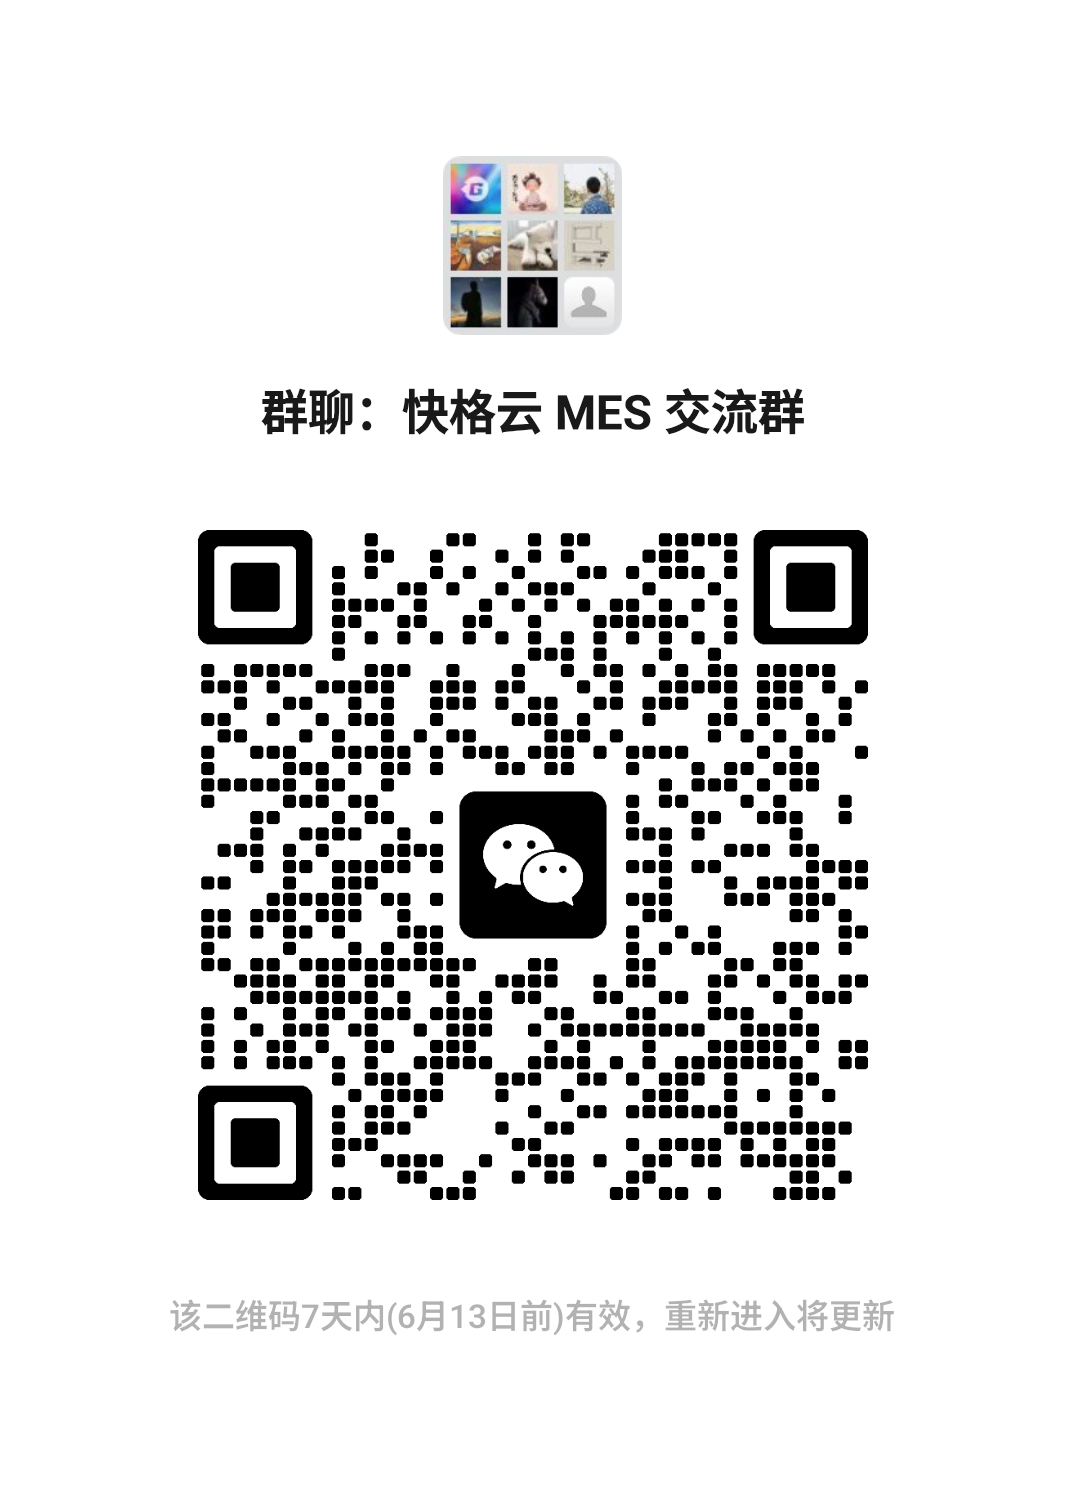
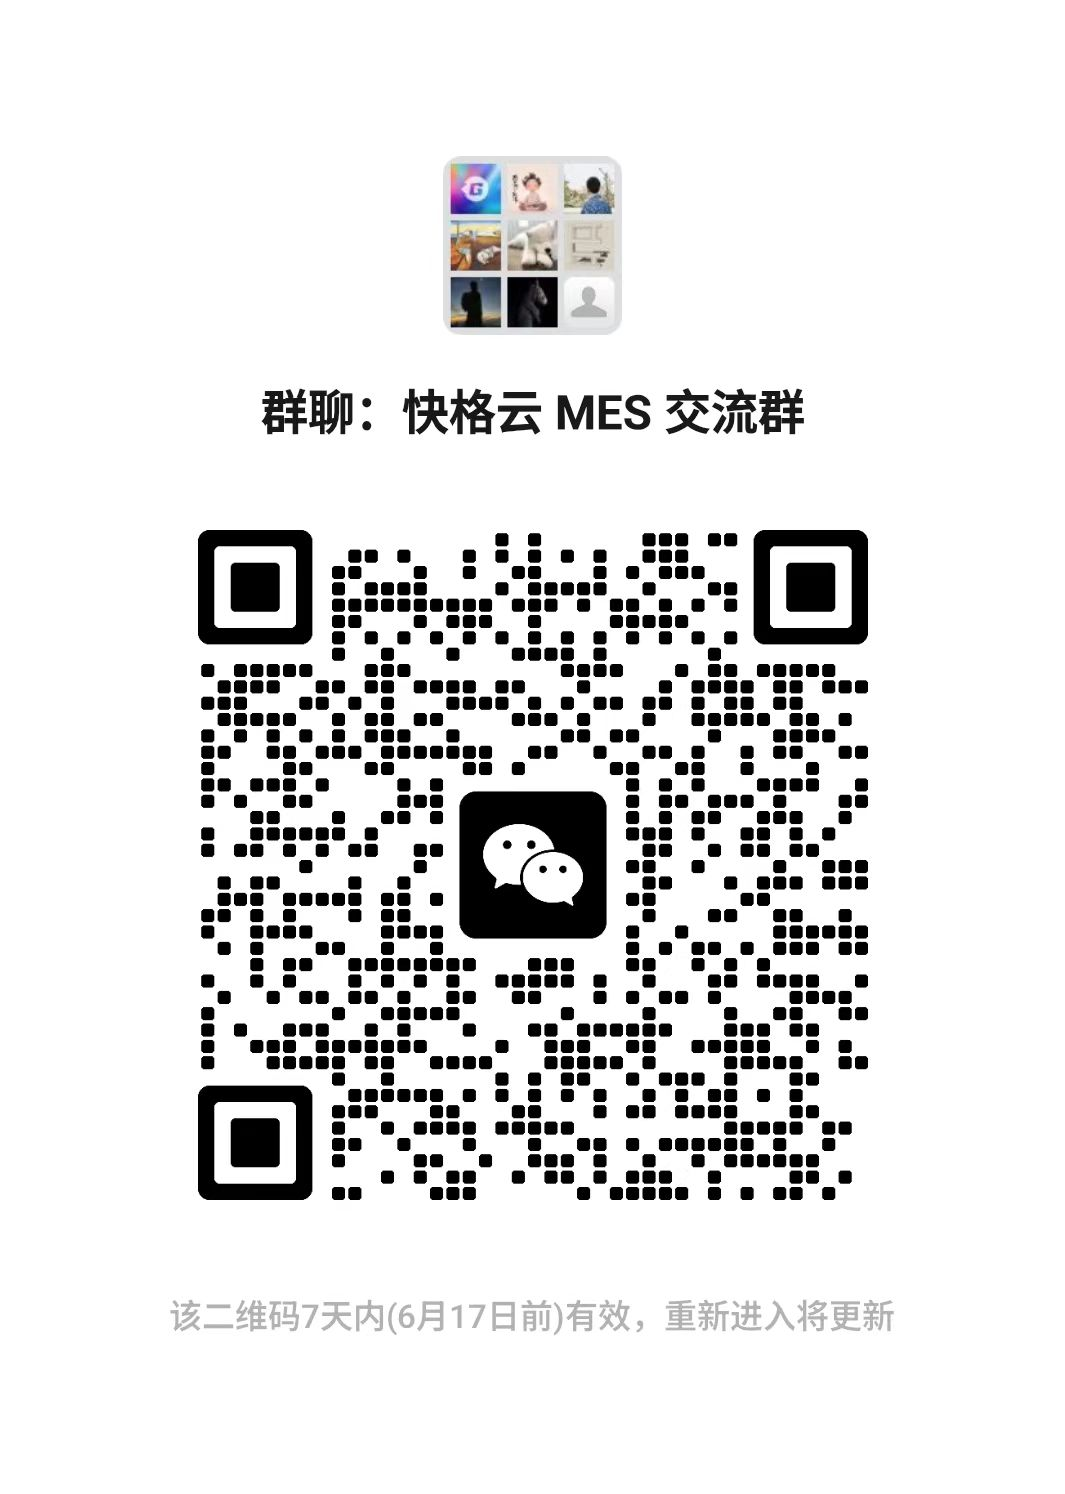
docs: restore README branding and update WeChat group QR code.
Recover logo, tech badges, and group QR image reference after accidental README formatting in a prior commit.

diff --git a/README.md b/README.md
@@ -1,18 +1,18 @@
-#  快格云制造
+# <img src="docs/screenshots/logo/kuaige.png" alt="Logo" height="36" align="absmiddle" /> 快格云制造
 
-React
-TypeScript
-Vite
-Ant Design
-FastAPI
-Python
-PostgreSQL
-Pydantic
-UV
-Tortoise ORM
-Taskiq
+![React](https://img.shields.io/badge/React-18-61DAFB?style=flat-square&logo=react)
+![TypeScript](https://img.shields.io/badge/TypeScript-5-3178C6?style=flat-square&logo=typescript)
+![Vite](https://img.shields.io/badge/Vite-5-646CFF?style=flat-square&logo=vite)
+![Ant Design](https://img.shields.io/badge/Ant%20Design-6-0170FE?style=flat-square&logo=antdesign)
+![FastAPI](https://img.shields.io/badge/FastAPI-0.115-009688?style=flat-square&logo=fastapi)
+![Python](https://img.shields.io/badge/Python-3.11-3776AB?style=flat-square&logo=python)
+![PostgreSQL](https://img.shields.io/badge/PostgreSQL-15-336791?style=flat-square&logo=postgresql)
+![Pydantic](https://img.shields.io/badge/Pydantic-2-E92063?style=flat-square&logo=pydantic)
+![UV](https://img.shields.io/badge/UV-1.x-FFD43B?style=flat-square)
+![Tortoise ORM](https://img.shields.io/badge/Tortoise%20ORM-0.21-2E7D32?style=flat-square)
+![Taskiq](https://img.shields.io/badge/Taskiq-PostgreSQL-6366F1?style=flat-square)
 
-**移动端**：Expo React Native Ant Design RN Expo Router
+**移动端**：![Expo](https://img.shields.io/badge/Expo-54-000020?style=flat-square&logo=expo) ![React Native](https://img.shields.io/badge/React%20Native-0.81-61DAFB?style=flat-square&logo=react) ![Ant Design RN](https://img.shields.io/badge/Ant%20Design%20RN-5-0170FE?style=flat-square&logo=antdesign) ![Expo Router](https://img.shields.io/badge/Expo%20Router-6-000020?style=flat-square)
 
 为离散制造企业打造的轻量级 MES：以统一需求模型贯通“销售-计划-执行-仓储”，帮助企业在可控成本下快速上线并持续扩展。
 
@@ -51,7 +51,7 @@ Taskiq
 
 ## 微信沟通反馈群
 
-
+<img src="docs/screenshots/wechat/wechat.png" alt="微信沟通反馈群" width="280" />
 
 ## 致谢
 
